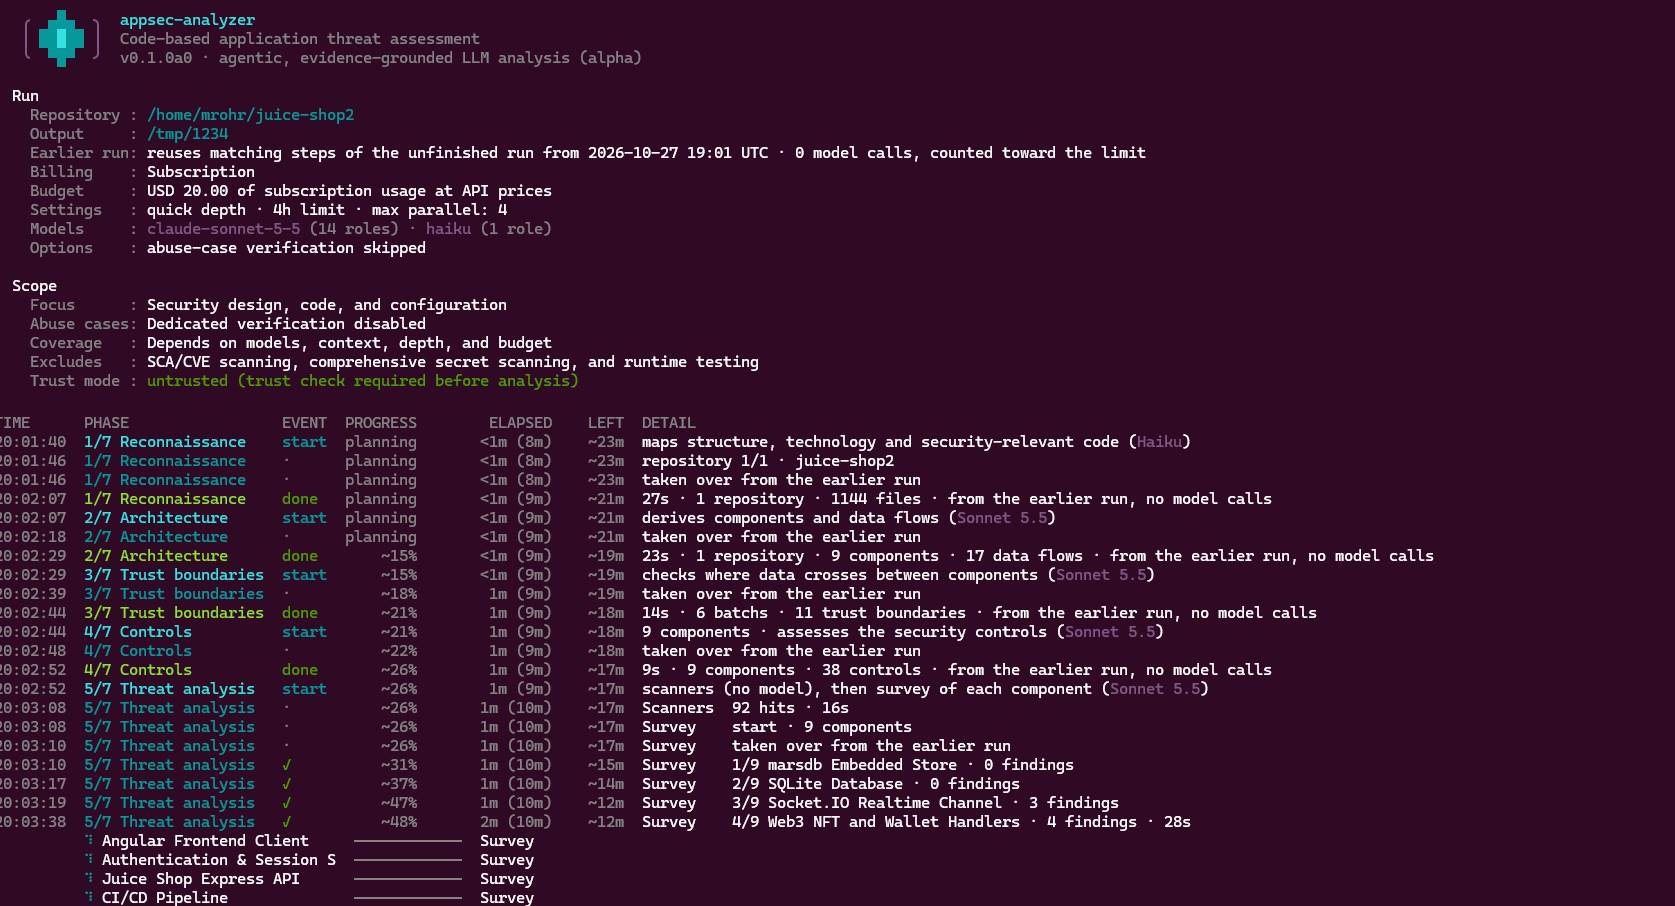
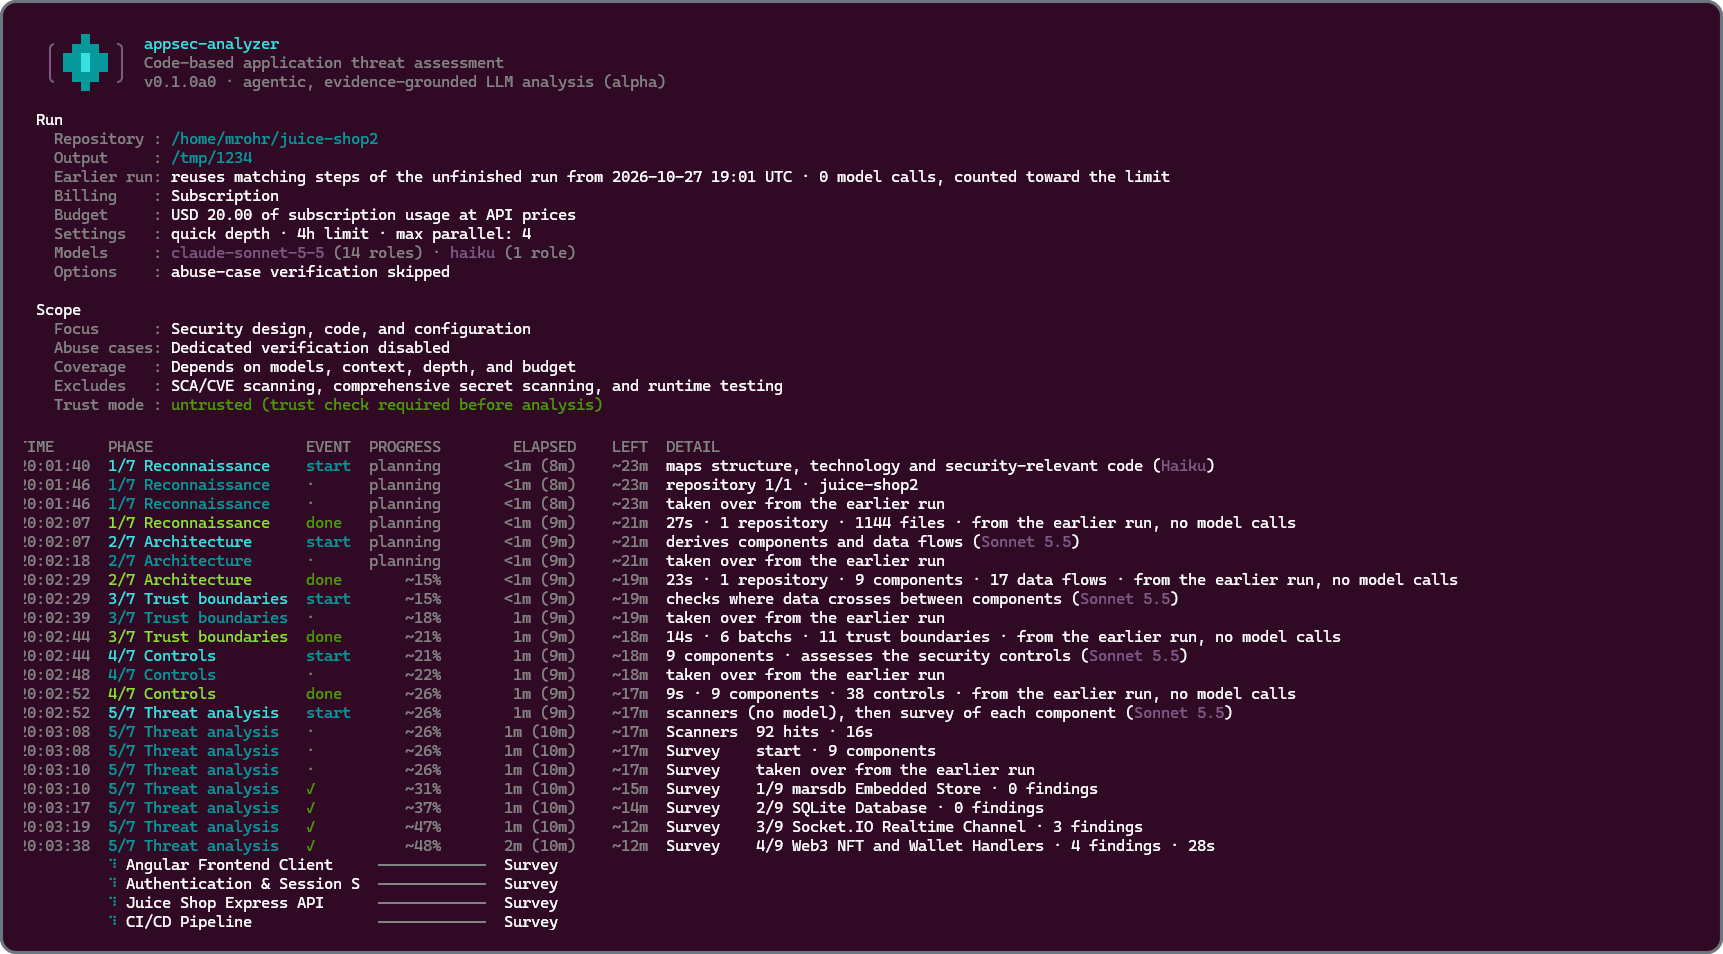
docs: show the console example in the Quick start without collapsing and add a border

Changed region(s): [[0.0, 0.0, 1.0, 1.0]]

diff --git a/README.md b/README.md
@@ -42,14 +42,9 @@ This example assesses the intentionally vulnerable [OWASP Juice Shop](https://gi
    appsec-analyzer review ~/assessments/juice-shop
    ```
 
-While `assess` runs, the console shows the run settings, the scope, and the progress of each phase with elapsed and remaining time.
-
-<details>
-<summary>Example console output</summary>
+While `assess` runs, the console shows the run settings, the scope, and the progress of each phase with elapsed and remaining time:
 
 ![Console output of appsec-analyzer assess: run settings, scope, and a progress table per phase](docs/images/assess-console.png)
-
-</details>
 
 To update Analyzer later, run `appsec-analyzer update`. See [Install](#install) for details.
 
